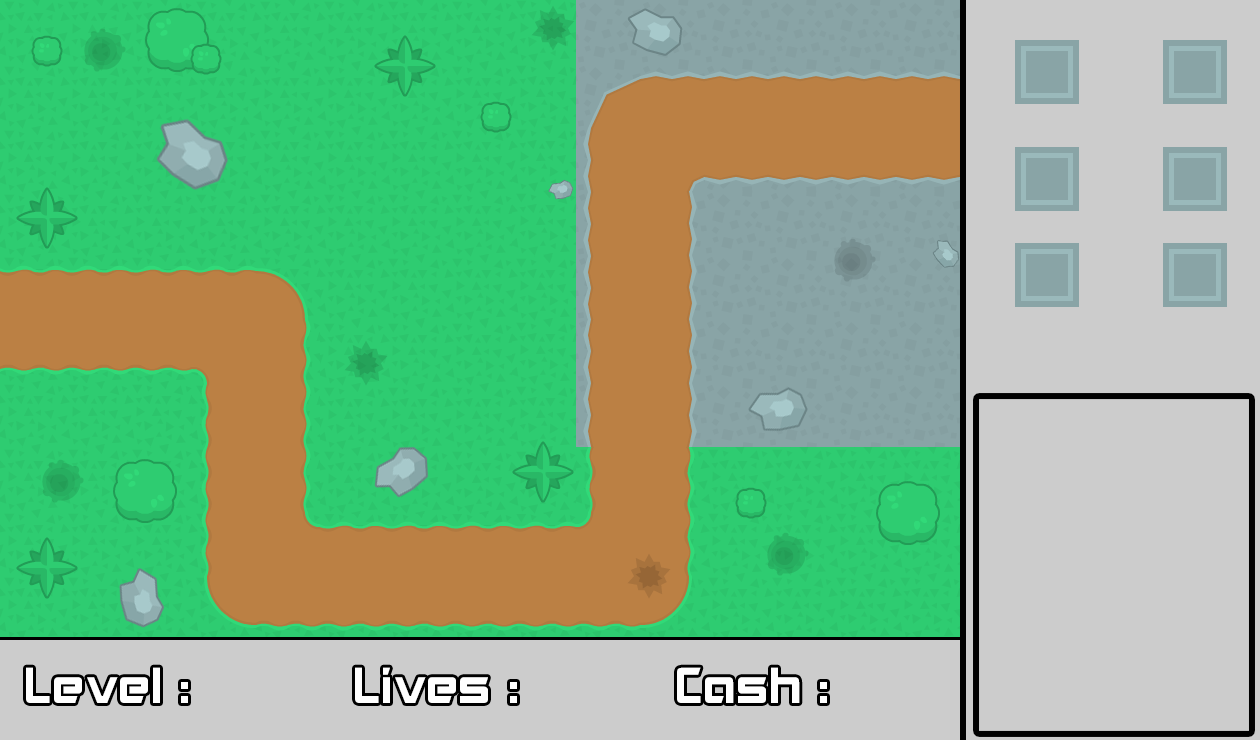
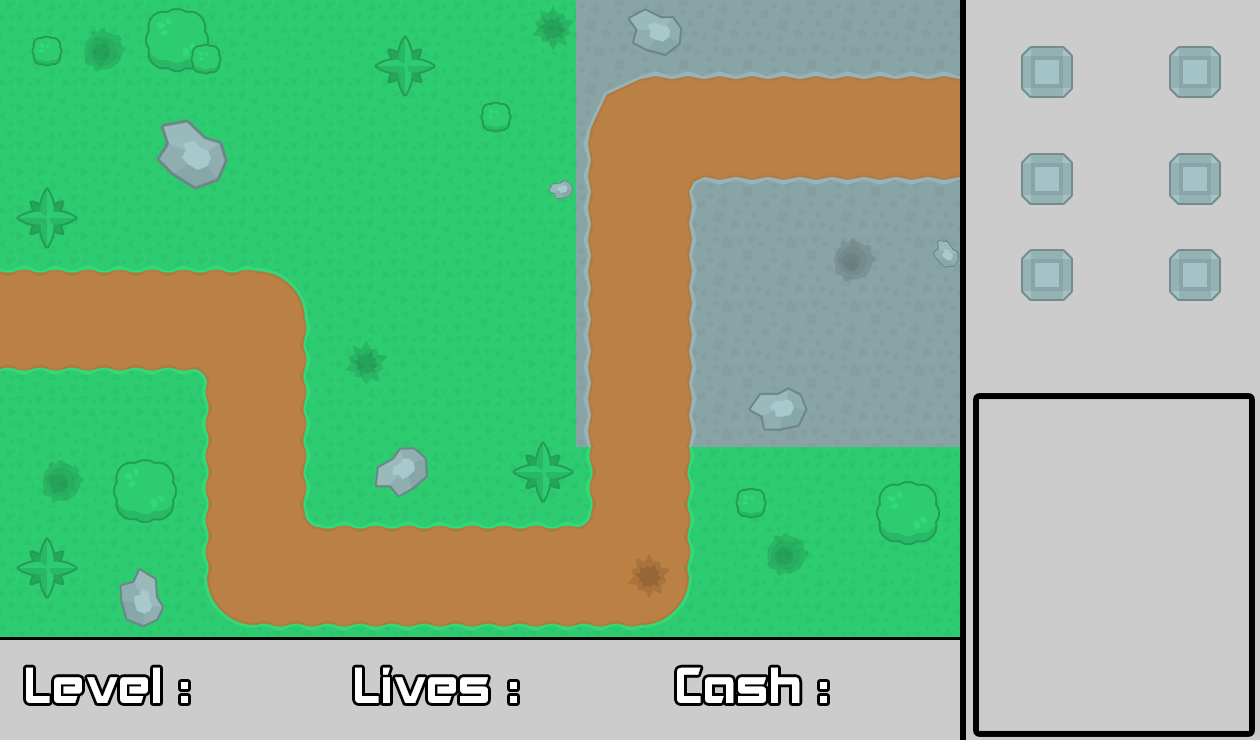
- Thêm class Bullet để xử lý đạn bắn. - Thêm tầm bắn cho tháp (đang test giở).

diff --git a/src/TowerDefense/GameTile/Tower/Tower.java b/src/TowerDefense/GameTile/Tower/Tower.java
@@ -1,35 +1,35 @@
-package TowerDefense.GameTile;
+package TowerDefense.GameTile.Tower;
 
-import TowerDefense.Button.TowerButton;
 import TowerDefense.Config;
 import TowerDefense.GameEntity.GameEntity;
+import TowerDefense.GameStage;
+import TowerDefense.GameTile.Road;
 import javafx.animation.Animation;
-import javafx.animation.KeyFrame;
 import javafx.animation.PathTransition;
-import javafx.animation.Timeline;
 import javafx.event.EventHandler;
-import javafx.scene.effect.DropShadow;
 import javafx.scene.effect.Glow;
 import javafx.scene.image.Image;
 import javafx.scene.image.ImageView;
 import javafx.scene.input.MouseEvent;
-import javafx.scene.layout.VBox;
+import javafx.scene.paint.Color;
 import javafx.scene.shape.Circle;
-import javafx.scene.shape.Rectangle;
 import javafx.util.Duration;
 
 import java.io.File;
-import java.util.ArrayList;
 
 public class Tower extends GameEntity {
     private int TowerValue;
     private int TowerLevel;
     private boolean draggable;
-    private boolean canShoot;
+    private boolean canSpawnBullet;
+    private static TowerType currentType;
+    private float ShootRange;
+
 
     public Tower(TowerType towerType) {
         draggable = true;
-        canShoot = false;
+        canSpawnBullet = true;
+        currentType = towerType;
         loadImage(towerType);
         this.getChildren().add(image);
         setMouse();
@@ -43,26 +43,32 @@ public class Tower extends GameEntity {
             case NormalTower:
                 imageLocation = new File("Asset\\TowerTile\\1.png");
                 image = new ImageView(new Image(imageLocation.toURI().toString()));
+                ShootRange = 110;
                 break;
             case SniperTower:
                 imageLocation = new File("Asset\\TowerTile\\2.png");
                 image = new ImageView(new Image(imageLocation.toURI().toString()));
+                ShootRange = 130;
                 break;
             case MachineGunTower:
                 imageLocation = new File("Asset\\TowerTile\\3.png");
                 image = new ImageView(new Image(imageLocation.toURI().toString()));
+                ShootRange = 90;
                 break;
             case UnnamedTower:
                 imageLocation = new File("Asset\\TowerTile\\4.png");
                 image = new ImageView(new Image(imageLocation.toURI().toString()));
+                ShootRange = 100;
                 break;
             case RayTower:
                 imageLocation = new File("Asset\\TowerTile\\5.png");
                 image = new ImageView(new Image(imageLocation.toURI().toString()));
+                ShootRange = 100;
                 break;
             case IceTurret:
                 imageLocation = new File("Asset\\TowerTile\\6.png");
                 image = new ImageView(new Image(imageLocation.toURI().toString()));
+                ShootRange = 100;
                 break;
         }
     }
@@ -99,9 +105,16 @@ public class Tower extends GameEntity {
         setOnMouseReleased(event -> {
             /*Kiểm tra xem nếu Tower nằm trong map và không va chạm với đường đi thì mới đặt được tháp*/
             if((this.getLayoutX() <= Config.SCREEN_WIDTH - Config.MENU_WIDTH
-                    && this.getLayoutY() <= Config.SCREEN_HEIGHT - Config.MENU_HEIGHT) && !checkCollision())
+                    && this.getLayoutY() <= Config.SCREEN_HEIGHT - Config.MENU_HEIGHT) && !collideWithRoad()) {
                 draggable = false;
-                canShoot = true;
+                xPos = this.getLayoutX();
+                yPos = this.getLayoutY();
+                generateFireRange();
+                if(canSpawnBullet) {
+                    spawnBullet(currentType);
+                    canSpawnBullet = false;
+                }
+            }
         });
     }
 
@@ -113,6 +126,7 @@ public class Tower extends GameEntity {
         circle.setRadius(Config.TILE_SIZE/2);
 
         PathTransition rotateTimeline = new PathTransition();
+        rotateTimeline.setDuration(Duration.millis(5000));
         rotateTimeline.setPath(circle);
         rotateTimeline.setNode(this);
         rotateTimeline.setOrientation(PathTransition.OrientationType.ORTHOGONAL_TO_TANGENT);
@@ -121,7 +135,7 @@ public class Tower extends GameEntity {
     }
 
     /*Kiểm tra va chạm với đường đi*/
-    private boolean checkCollision() {
+    private boolean collideWithRoad() {
         for(int i = 0; i < Road.roadPath.length; i++) {
             if(this.getBoundsInParent().intersects(Road.roadPath[i].getBoundsInParent())) {
                 System.out.println("Can't place tower on road.");
@@ -129,6 +143,19 @@ public class Tower extends GameEntity {
             }
         }
         return false;
+    }
+
+    /*Bắn đạn*/
+    private void spawnBullet(TowerType towerType) {
+        Bullet bullet = new Bullet(towerType);
+        GameStage.mainWindow.getChildren().add(bullet);
+    }
+
+    private void generateFireRange() {
+        Circle fireRange = new Circle(xPos + Config.TILE_SIZE, yPos + Config.TILE_SIZE, ShootRange);
+        fireRange.setFill(Color.TRANSPARENT);
+        fireRange.setStroke(Color.BLUEVIOLET);
+        GameStage.mainWindow.getChildren().add(fireRange);
     }
 
     @Override

diff --git a/src/TowerDefense/GameTile/Tower/Bullet.java b/src/TowerDefense/GameTile/Tower/Bullet.java
@@ -1,0 +1,83 @@
+package TowerDefense.GameTile.Tower;
+
+import TowerDefense.Config;
+import TowerDefense.GameEntity.Enemy.Enemy;
+import TowerDefense.GameEntity.GameEntity;
+import javafx.animation.Animation;
+import javafx.animation.PathTransition;
+import javafx.scene.image.Image;
+import javafx.scene.image.ImageView;
+import javafx.scene.shape.HLineTo;
+import javafx.scene.shape.MoveTo;
+import javafx.scene.shape.Path;
+import javafx.util.Duration;
+
+import java.io.File;
+
+public class Bullet extends GameEntity {
+
+    private float speed;
+    private float damage;
+
+    public Bullet(GameEntity.TowerType towerType) {
+        loadBulletImage(towerType);
+        this.getChildren().add(image);
+        move();
+    }
+
+    public void loadBulletImage(GameEntity.TowerType towerType) {
+        switch (towerType) {
+            case NormalTower:
+                imageLocation = new File("D:\\OOP Project\\OOP\\Asset\\BulletTile\\Normal.png");
+                image = new ImageView(new Image(imageLocation.toURI().toString()));
+                break;
+            case SniperTower:
+                imageLocation = new File("D:\\OOP Project\\OOP\\Asset\\BulletTile\\Sniper.png");
+                image = new ImageView(new Image(imageLocation.toURI().toString()));
+                break;
+            case MachineGunTower:
+                imageLocation = new File("D:\\OOP Project\\OOP\\Asset\\BulletTile\\Machine.png");
+                image = new ImageView(new Image(imageLocation.toURI().toString()));
+                break;
+            case UnnamedTower:
+                imageLocation = new File("D:\\OOP Project\\OOP\\Asset\\BulletTile\\Unamed.png");
+                image = new ImageView(new Image(imageLocation.toURI().toString()));
+                break;
+            case IceTurret:
+                imageLocation = new File("D:\\OOP Project\\OOP\\Asset\\BulletTile\\Turret.png");
+                image = new ImageView(new Image(imageLocation.toURI().toString()));
+                break;
+            case RayTower:
+                imageLocation = new File("D:\\OOP Project\\OOP\\Asset\\BulletTile\\Ray.png");
+                image = new ImageView(new Image(imageLocation.toURI().toString()));
+                 break;
+        }
+    }
+
+    public void move() {
+        Path shootingPath = new Path();
+        shootingPath.getElements().add(new MoveTo(Tower.xPos + Config.TILE_SIZE,Tower.yPos + Config.TILE_SIZE));
+        shootingPath.getElements().add(new HLineTo(100));
+
+        PathTransition path = new PathTransition();
+        path.setNode(image);
+        path.setPath(shootingPath);
+        path.setDuration(Duration.millis(1000));
+        path.setCycleCount(Animation.INDEFINITE);
+        path.setAutoReverse(false);
+        path.setOnFinished(event-> {
+            onDestroy();
+        });
+        path.play();
+    }
+
+    @Override
+    public boolean isDestroy() {
+        return false;
+    }
+
+    public void onDestroy() {
+        this.getChildren().remove(image);
+        image = null;
+    }
+}

diff --git a/src/TowerDefense/GameStage.java b/src/TowerDefense/GameStage.java
@@ -64,8 +64,8 @@ public class GameStage {
 
     private void createTowerButton() {
 
-        double startXPos = 1015;
-        double startYPos = 25;
+        double startXPos = 1015.5;
+        double startYPos = 27;
 
         TowerButton tower1 = new TowerButton(GameEntity.TowerType.NormalTower);
         TowerButton tower2 = new TowerButton(GameEntity.TowerType.SniperTower);
@@ -77,20 +77,20 @@ public class GameStage {
         tower1.setLayoutX(startXPos);
         tower1.setLayoutY(startYPos);
 
-        tower2.setLayoutX(startXPos + 150);
-        tower2.setLayoutY(startYPos);
+        tower2.setLayoutX(startXPos + 148);
+        tower2.setLayoutY(startYPos + 2);
 
         tower3.setLayoutX(startXPos);
         tower3.setLayoutY(startYPos + 110);
 
-        tower4.setLayoutX(startXPos + 150);
-        tower4.setLayoutY(startYPos + 110);
+        tower4.setLayoutX(startXPos + 148);
+        tower4.setLayoutY(startYPos + 117);
 
         tower5.setLayoutX(startXPos);
-        tower5.setLayoutY(startYPos + 110*2);
+        tower5.setLayoutY(startYPos + 110*2-10);
 
-        tower6.setLayoutX(startXPos + 150);
-        tower6.setLayoutY(startYPos + 110*2);
+        tower6.setLayoutX(startXPos + 148);
+        tower6.setLayoutY(startYPos + 110*2-10);
 
         mainWindow.getChildren().add(tower1);
         mainWindow.getChildren().add(tower2);

diff --git a/src/TowerDefense/Button/TowerButton.java b/src/TowerDefense/Button/TowerButton.java
@@ -1,7 +1,7 @@
 package TowerDefense.Button;
 
 import TowerDefense.GameEntity.GameEntity;
-import TowerDefense.GameTile.Tower;
+import TowerDefense.GameTile.Tower.Tower;
 import TowerDefense.GameStage;
 import javafx.event.EventHandler;
 import javafx.scene.effect.Glow;
@@ -83,6 +83,7 @@ public class TowerButton extends GameEntity {
                 tower.setLayoutX(event.getSceneX());
                 tower.setLayoutY(event.getSceneY());
                 GameStage.mainWindow.getChildren().add(tower);
+                System.out.println(towerType + " spawned.");
             }
         });
     }

diff --git a/src/TowerDefense/GameEntity/Enemy/EnemySpawner.java b/src/TowerDefense/GameEntity/Enemy/EnemySpawner.java
@@ -12,7 +12,7 @@ import java.util.ArrayList;
 
 public class EnemySpawner extends AnchorPane {
 
-    private ArrayList<Enemy> enemies = new ArrayList<>();
+    public static ArrayList<Enemy> enemies = new ArrayList<>();
     public static Timeline timeline;
 
     public EnemySpawner(int numberOfEnemySpawned, GameEntity.EnemyType enemyType) {

diff --git a/src/TowerDefense/GameEntity/GameEntity.java b/src/TowerDefense/GameEntity/GameEntity.java
@@ -10,8 +10,8 @@ public abstract class GameEntity extends VBox {
     protected ImageView image;
     protected File imageLocation;
     protected int health;
-    protected double posX;
-    protected double posY;
+    protected static double xPos;
+    protected static double yPos;
 
     public enum EnemyType {
         NormalEnemy,

diff --git a/src/TowerDefense/GameEntity/Enemy/Enemy.java b/src/TowerDefense/GameEntity/Enemy/Enemy.java
@@ -17,6 +17,8 @@ public class Enemy extends GameEntity {
     public Enemy(EnemyType type) {
         loadImage(type);
         this.getChildren().add(image);
+        xPos = image.getLayoutX();
+        yPos = image.getLayoutY();
         move();
     }
 

diff --git a/src/TowerDefense/GameTile/Tower/TowerStats.java b/src/TowerDefense/GameTile/Tower/TowerStats.java
@@ -1,0 +1,4 @@
+package TowerDefense.GameTile.Tower;
+
+public class TowerStats {
+}
